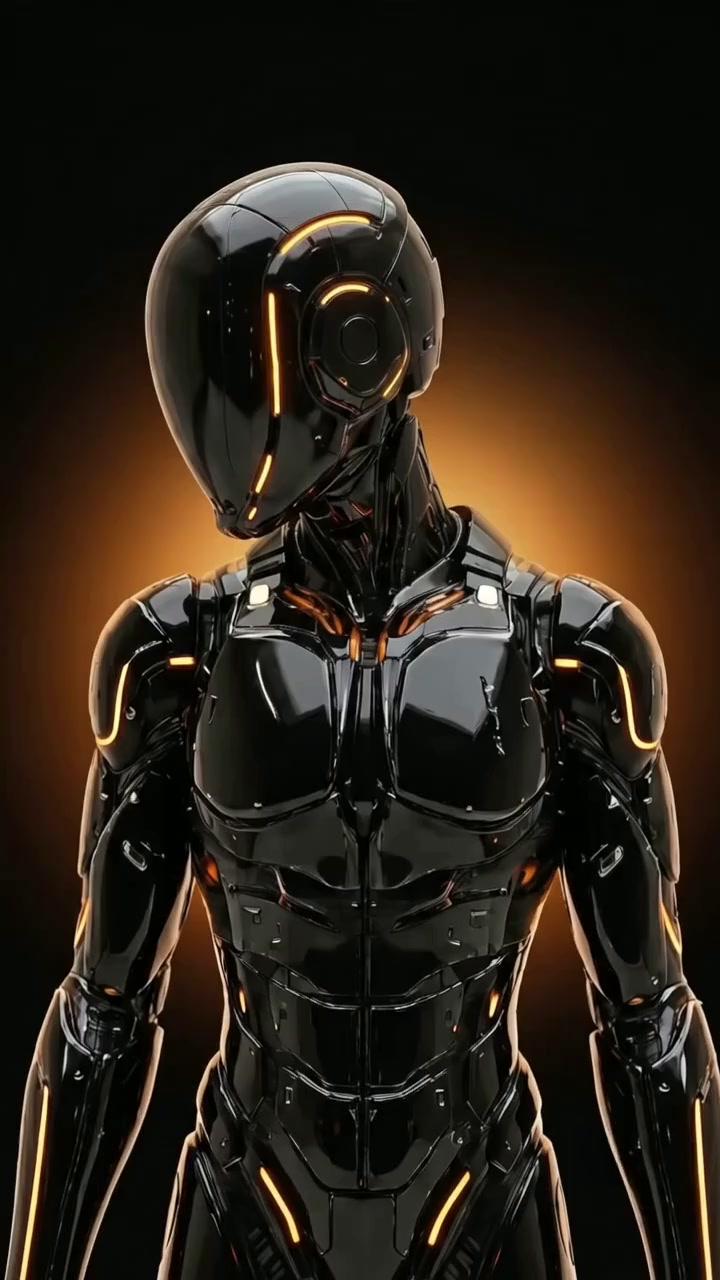
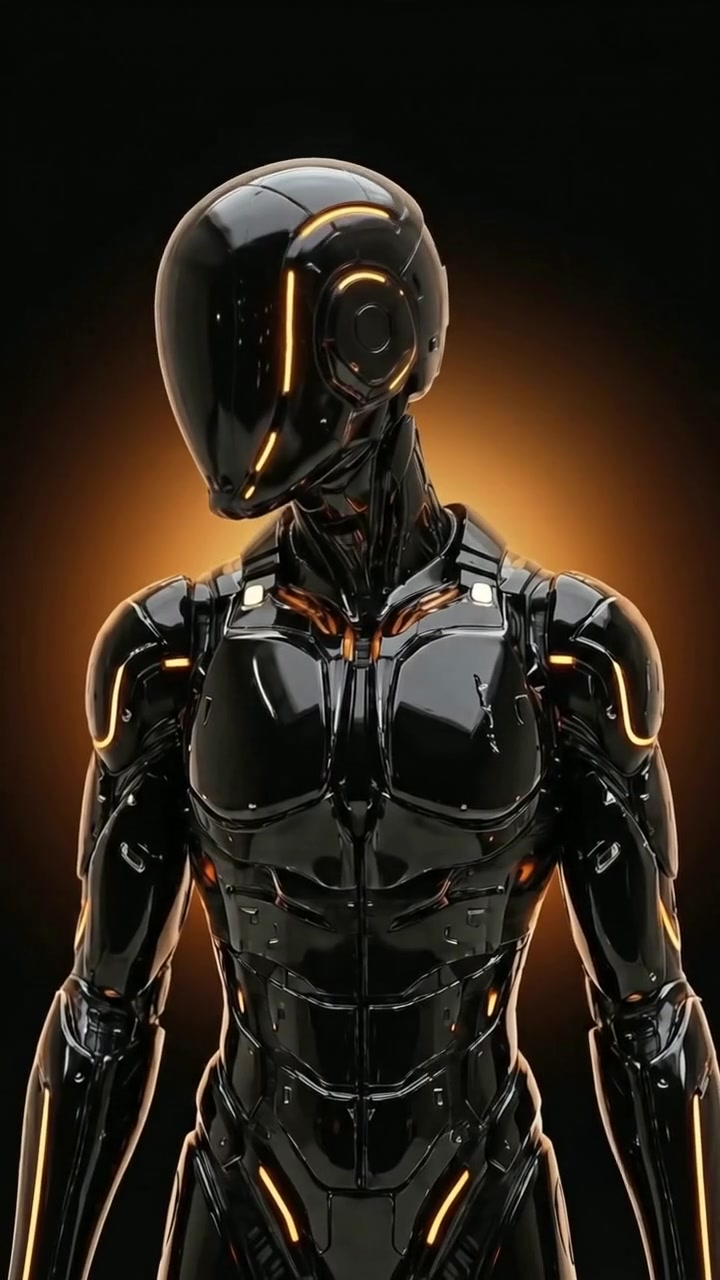
fix: smooth robot gaze and hero atmosphere

diff --git a/src/components/RobotCore.tsx b/src/components/RobotCore.tsx
@@ -9,17 +9,10 @@ type RobotCoreProps = {
 type Direction = "center" | "lower-left" | "left" | "upper-left" | "up" | "upper-right" | "right" | "lower-right";
 
 const DIRECTION_PATH = "/images/robot-directions/";
-const POINTER_SMOOTHING = 0.34;
-const CENTER_DEAD_ZONE = 0.22;
-const DIRECTIONS: Array<{ name: Direction; x: number; y: number }> = [
-  { name: "lower-left", x: -1, y: 1 },
-  { name: "left", x: -1, y: 0 },
-  { name: "upper-left", x: -1, y: -1 },
-  { name: "up", x: 0, y: -1 },
-  { name: "upper-right", x: 1, y: -1 },
-  { name: "right", x: 1, y: 0 },
-  { name: "lower-right", x: 1, y: 1 },
-];
+const POINTER_SMOOTHING = 0.42;
+const CENTER_DEAD_ZONE = 0.16;
+const TRANSITION_MS = 180;
+const DIRECTIONS: Direction[] = ["center", "lower-left", "left", "upper-left", "up", "upper-right", "right", "lower-right"];
 
 function clamp(value: number, min: number, max: number) {
   return Math.min(Math.max(value, min), max);
@@ -33,21 +26,28 @@ function getNearestDirection(x: number, y: number): Direction {
   const distanceFromCenter = Math.hypot(x, y);
   if (distanceFromCenter < CENTER_DEAD_ZONE) return "center";
 
-  let nearest = DIRECTIONS[0];
-  let nearestDistance = Number.POSITIVE_INFINITY;
-
-  for (const direction of DIRECTIONS) {
-    const distance = Math.hypot(x - direction.x, y - direction.y);
-    if (distance < nearestDistance) {
-      nearest = direction;
-      nearestDistance = distance;
-    }
+  if (y < -0.28) {
+    if (x < -0.22) return "upper-left";
+    if (x > 0.22) return "upper-right";
+    return "up";
   }
 
-  return nearest.name;
+  if (y > 0.42) {
+    if (x < -0.24) return "lower-left";
+    if (x > 0.24) return "lower-right";
+  }
+
+  if (x < -0.2) return "left";
+  if (x > 0.2) return "right";
+
+  return "center";
 }
 
-function drawCover(ctx: CanvasRenderingContext2D, image: HTMLImageElement, width: number, height: number) {
+function easeOutCubic(value: number) {
+  return 1 - Math.pow(1 - value, 3);
+}
+
+function drawCover(ctx: CanvasRenderingContext2D, image: HTMLImageElement, width: number, height: number, clear = true) {
   const imageRatio = image.naturalWidth / image.naturalHeight;
   const canvasRatio = width / height;
   const sourceWidth = imageRatio > canvasRatio ? image.naturalHeight * canvasRatio : image.naturalWidth;
@@ -55,7 +55,7 @@ function drawCover(ctx: CanvasRenderingContext2D, image: HTMLImageElement, width
   const sourceX = (image.naturalWidth - sourceWidth) / 2;
   const sourceY = (image.naturalHeight - sourceHeight) / 2;
 
-  ctx.clearRect(0, 0, width, height);
+  if (clear) ctx.clearRect(0, 0, width, height);
   ctx.drawImage(image, sourceX, sourceY, sourceWidth, sourceHeight, 0, 0, width, height);
 }
 
@@ -77,7 +77,10 @@ export default function RobotCore({ accent }: RobotCoreProps) {
     targetY: 0,
     smoothX: 0,
     smoothY: 0,
-    renderedDirection: null as Direction | null,
+    fromDirection: "center" as Direction,
+    toDirection: "center" as Direction,
+    renderedDirection: "center" as Direction,
+    transitionStartedAt: 0,
     canvasWidth: 0,
     canvasHeight: 0,
     reducedMotion: false,
@@ -95,13 +98,12 @@ export default function RobotCore({ accent }: RobotCoreProps) {
     if (!ctx) return;
     const canvasContext = ctx;
 
-    const directions: Direction[] = ["center", "lower-left", "left", "upper-left", "up", "upper-right", "right", "lower-right"];
-    for (const direction of directions) {
+    for (const direction of DIRECTIONS) {
       const image = new Image();
       image.decoding = "async";
       image.src = getDirectionSrc(direction);
       image.onload = () => {
-        if (direction === "center" || direction === state.renderedDirection) drawDirection(getCurrentDirection());
+        if (direction === "center" || direction === state.toDirection) drawStaticDirection(getCurrentDirection());
       };
       directionImagesRef.current[direction] = image;
     }
@@ -117,17 +119,50 @@ export default function RobotCore({ accent }: RobotCoreProps) {
         canvasElement.height = nextHeight;
         state.canvasWidth = nextWidth;
         state.canvasHeight = nextHeight;
-        state.renderedDirection = null;
-        drawDirection(getCurrentDirection());
+        drawStaticDirection(getCurrentDirection());
       }
     }
 
-    function drawDirection(direction: Direction) {
+    function drawImage(direction: Direction, alpha: number) {
+      const image = directionImagesRef.current[direction];
+      if (!image?.complete || image.naturalWidth <= 0) return;
+
+      canvasContext.globalAlpha = alpha;
+      drawCover(canvasContext, image, canvasElement.width, canvasElement.height, false);
+      canvasContext.globalAlpha = 1;
+    }
+
+    function drawStaticDirection(direction: Direction) {
       const image = directionImagesRef.current[direction];
       if (!image?.complete || image.naturalWidth <= 0) return;
 
       drawCover(canvasContext, image, canvasElement.width, canvasElement.height);
+      state.fromDirection = direction;
+      state.toDirection = direction;
       state.renderedDirection = direction;
+      state.transitionStartedAt = performance.now();
+    }
+
+    function drawTransition(now: number) {
+      const elapsed = now - state.transitionStartedAt;
+      const progress = clamp(elapsed / TRANSITION_MS, 0, 1);
+      const eased = easeOutCubic(progress);
+
+      canvasContext.clearRect(0, 0, canvasElement.width, canvasElement.height);
+      drawImage(state.fromDirection, 1);
+      drawImage(state.toDirection, eased);
+
+      if (progress >= 1) {
+        state.fromDirection = state.toDirection;
+        state.renderedDirection = state.toDirection;
+      }
+    }
+
+    function startTransition(direction: Direction) {
+      if (direction === state.toDirection) return;
+      state.fromDirection = state.toDirection;
+      state.toDirection = direction;
+      state.transitionStartedAt = performance.now();
     }
 
     function getCurrentDirection() {
@@ -136,8 +171,10 @@ export default function RobotCore({ accent }: RobotCoreProps) {
     }
 
     function syncDirection() {
+      const now = performance.now();
+
       if (state.reducedMotion) {
-        if (state.renderedDirection !== "center") drawDirection("center");
+        if (state.renderedDirection !== "center") drawStaticDirection("center");
         return;
       }
 
@@ -145,7 +182,8 @@ export default function RobotCore({ accent }: RobotCoreProps) {
       state.smoothY += (state.targetY - state.smoothY) * POINTER_SMOOTHING;
 
       const direction = getCurrentDirection();
-      if (direction !== state.renderedDirection) drawDirection(direction);
+      startTransition(direction);
+      drawTransition(now);
     }
 
     function tick() {
@@ -166,7 +204,7 @@ export default function RobotCore({ accent }: RobotCoreProps) {
         state.targetY = 0;
         state.smoothX = 0;
         state.smoothY = 0;
-        drawDirection("center");
+        drawStaticDirection("center");
       }
     }
 

diff --git a/src/components/CommandHero.tsx b/src/components/CommandHero.tsx
@@ -37,6 +37,10 @@ const POSITIONS = [
 
 type Point = { x: number; y: number };
 
+function clamp(value: number, min: number, max: number) {
+  return Math.min(Math.max(value, min), max);
+}
+
 export default function CommandHero() {
   const sectionRef = useRef<HTMLElement>(null);
   const mouse = useRef<Point>({ x: -999, y: -999 });
@@ -91,6 +95,14 @@ export default function CommandHero() {
     [cursor.x, cursor.y, service.themeColor],
   );
 
+  const cursorNorm = useMemo(() => {
+    if (typeof window === "undefined" || cursor.x < 0 || cursor.y < 0) return { x: 0.5, y: 0.5 };
+    return {
+      x: clamp(cursor.x / window.innerWidth, 0, 1),
+      y: clamp(cursor.y / window.innerHeight, 0, 1),
+    };
+  }, [cursor.x, cursor.y]);
+
   return (
     <section
       ref={sectionRef}
@@ -112,7 +124,7 @@ export default function CommandHero() {
       <div className="relative z-30 flex h-full flex-col px-gutter pb-s7 pt-s10">
         <div className="flex flex-1 items-center justify-center">
           <CyberCore active={active} />
-          <ServiceConstellation active={active} setActive={setActive} />
+          <ServiceConstellation active={active} cursor={cursorNorm} entered={entered && !reduceMotion} setActive={setActive} />
         </div>
 
         <MobileServiceSelector active={active} setActive={setActive} />
@@ -129,7 +141,7 @@ export default function CommandHero() {
 function BaseAtmosphere() {
   return (
     <div className="absolute inset-0 z-0" aria-hidden="true">
-      <div className="absolute inset-0 bg-[radial-gradient(circle_at_50%_44%,color-mix(in_srgb,var(--brand-grad-mid)_20%,transparent),transparent_24rem),linear-gradient(180deg,var(--surface-base),var(--surface-sunken))]" />
+      <div className="robot-world-atmosphere absolute inset-0" />
       <div className="absolute inset-0 opacity-[0.08] [background-image:radial-gradient(var(--ink-strong)_1px,transparent_1px)] [background-size:24px_24px]" />
       <div className="absolute inset-0 bg-[linear-gradient(180deg,transparent_0%,color-mix(in_srgb,var(--surface-base)_44%,transparent)_58%,var(--surface-base)_100%)]" />
     </div>
@@ -221,17 +233,31 @@ function ActiveServicePanel({ service }: { service: (typeof services)[number] })
   );
 }
 
-function ServiceConstellation({ active, setActive }: { active: number; setActive: (index: number) => void }) {
+function ServiceConstellation({
+  active,
+  cursor,
+  entered,
+  setActive,
+}: {
+  active: number;
+  cursor: Point;
+  entered: boolean;
+  setActive: (index: number) => void;
+}) {
   return (
     <ol className="absolute inset-0 z-40 hidden md:block" aria-label="Service discovery atlas">
       {services.map((service, index) => {
         const selected = index === active;
         const position = POSITIONS[index];
+        const cardX = Number.parseFloat(position.left) / 100;
+        const cardY = Number.parseFloat(position.top) / 100;
+        const proximity = entered ? clamp(1 - Math.hypot(cursor.x - cardX, cursor.y - cardY) * 2.25, 0, 1) : 0;
         return (
           <li key={service.id} className="absolute -translate-x-1/2 -translate-y-1/2" style={position}>
             <ServiceAtlasCard
               service={service}
               selected={selected}
+              proximity={proximity}
               onActivate={() => setActive(index)}
             />
           </li>
@@ -244,10 +270,12 @@ function ServiceConstellation({ active, setActive }: { active: number; setActive
 function ServiceAtlasCard({
   service,
   selected,
+  proximity,
   onActivate,
 }: {
   service: (typeof services)[number];
   selected: boolean;
+  proximity: number;
   onActivate: () => void;
 }) {
   function onPointerMove(event: ReactPointerEvent<HTMLButtonElement>) {
@@ -267,7 +295,13 @@ function ServiceAtlasCard({
         className={`service-atlas-card group min-h-[7.5rem] w-full rounded-xl p-s5 text-left transition-all duration-slow ease-emphasized focus-visible:border-[color:var(--accent)] ${
           selected ? "is-active scale-[1.04]" : "opacity-55 hover:opacity-100"
         }`}
-        style={{ ["--accent" as string]: service.themeColor } as CSSProperties}
+        style={{
+          ["--accent" as string]: service.themeColor,
+          ["--card-proximity" as string]: proximity.toFixed(3),
+          ["--card-accent-amount" as string]: `${10 + proximity * 34}%`,
+          ["--card-ember-amount" as string]: `${5 + proximity * 16}%`,
+          ["--card-glow-size" as string]: `${proximity * 2}rem`,
+        } as CSSProperties}
         aria-pressed={selected}
       >
         <span className="block max-w-[15rem] font-display text-fs-h4 font-bold leading-[1.02] tracking-[var(--tracking-tight)] text-ink-strong">

diff --git a/src/app/globals.css b/src/app/globals.css
@@ -234,7 +234,7 @@
 }
 
 .cyber-hero {
-  --surface-base: var(--command-base);
+  --surface-base: var(--robot-void);
   --surface-raised: var(--command-raised);
   --surface-sunken: var(--command-sunken);
   --surface-line: var(--command-line);
@@ -242,6 +242,15 @@
   --ink-body: var(--command-body);
   --ink-muted: var(--command-muted);
   --ink-faint: color-mix(in srgb, var(--command-muted) 64%, transparent);
+  background: var(--robot-void);
+}
+
+.robot-world-atmosphere {
+  background:
+    radial-gradient(circle at 50% 43%, color-mix(in srgb, var(--robot-ember) 28%, transparent), transparent 24rem),
+    radial-gradient(circle at 50% 58%, color-mix(in srgb, var(--robot-ember-soft) 26%, transparent), transparent 36rem),
+    radial-gradient(circle at var(--cursor-x) var(--cursor-y), color-mix(in srgb, var(--accent) 10%, transparent), transparent 22rem),
+    linear-gradient(180deg, color-mix(in srgb, var(--robot-void) 92%, var(--command-base)), var(--robot-void) 58%, var(--command-sunken));
 }
 
 .cyber-reveal-layer {
@@ -296,15 +305,20 @@
   transform-style: preserve-3d;
   --card-x: 50%;
   --card-y: 50%;
+  --card-proximity: 0;
+  --card-accent-amount: 10%;
+  --card-ember-amount: 5%;
+  --card-glow-size: 0rem;
   border: 1px solid color-mix(in srgb, var(--surface-line) 72%, transparent);
   background:
-    radial-gradient(circle at var(--card-x) var(--card-y), color-mix(in srgb, var(--ink-strong) 7%, transparent), transparent 44%),
-    linear-gradient(145deg, color-mix(in srgb, var(--surface-raised) 54%, transparent), color-mix(in srgb, var(--surface-base) 24%, transparent)),
-    radial-gradient(circle at 18% 0%, color-mix(in srgb, var(--accent) 8%, transparent), transparent 56%);
+    radial-gradient(circle at var(--card-x) var(--card-y), color-mix(in srgb, var(--accent) var(--card-accent-amount), transparent), transparent 42%),
+    radial-gradient(circle at 72% 0%, color-mix(in srgb, var(--robot-ember) var(--card-ember-amount), transparent), transparent 58%),
+    linear-gradient(145deg, color-mix(in srgb, var(--surface-raised) 58%, transparent), color-mix(in srgb, var(--robot-void) 44%, transparent));
   box-shadow:
     inset 0 1px 0 color-mix(in srgb, var(--ink-strong) 7%, transparent),
     inset 0 -1px 0 color-mix(in srgb, var(--surface-base) 72%, transparent),
-    0 14px 42px rgba(0, 0, 0, 0.2);
+    0 14px 42px rgba(0, 0, 0, 0.2),
+    0 0 var(--card-glow-size) color-mix(in srgb, var(--accent) 12%, transparent);
 }
 
 .service-atlas-card > span {
@@ -319,9 +333,9 @@
   inset: 0;
   pointer-events: none;
   background:
-    radial-gradient(circle at var(--card-x) var(--card-y), color-mix(in srgb, var(--accent) 22%, transparent), transparent 7.5rem),
-    radial-gradient(circle at var(--card-x) var(--card-y), color-mix(in srgb, var(--ink-strong) 8%, transparent), transparent 10rem);
-  opacity: 0;
+    radial-gradient(circle at var(--card-x) var(--card-y), color-mix(in srgb, var(--accent) 30%, transparent), transparent 7.5rem),
+    radial-gradient(circle at var(--card-x) var(--card-y), color-mix(in srgb, var(--robot-ember) 18%, transparent), transparent 10rem);
+  opacity: var(--card-proximity);
   transition: opacity var(--dur-slow) var(--ease-standard);
   z-index: 1;
 }

diff --git a/src/styles/tokens.css b/src/styles/tokens.css
@@ -42,6 +42,11 @@
   --command-body:     #C8C5BE;
   --command-muted:    #8C8A85;
 
+  /* Robot footage environment — off-black shell + amber backlight. */
+  --robot-void:       #040604;
+  --robot-ember:      #D98526;
+  --robot-ember-soft: #6F3A16;
+
   /* ----------------------------------------------------------
    * Type — fluid scale via clamp() (design.md §1)
    * Lower bound = mobile (375px), upper = desktop (1440px)
